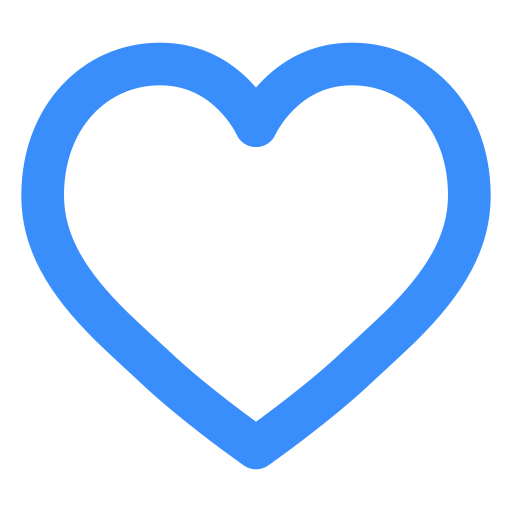
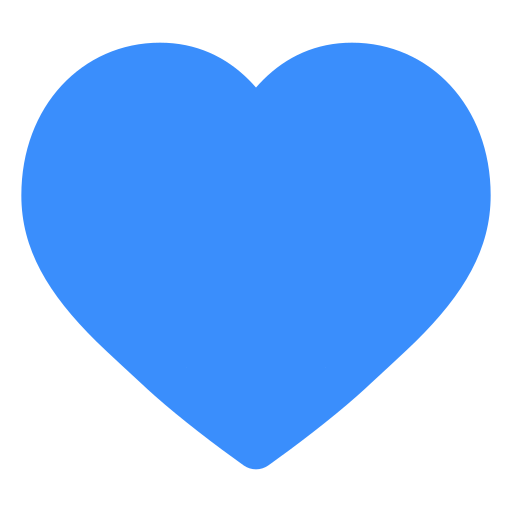
added inline posts & setup timeline

diff --git a/frontend/src/views/Home.js b/frontend/src/views/Home.js
@@ -1,17 +1,55 @@
-import React from "react"
+import React, { useEffect, useState } from "react"
 import SearchBar from "../components/SearchBar"
 
 import '../styles/Home.css'
-import '../components/PostView'
+import InlinePost from "../components/InlinePost"
 
 const Home = () => {
+    const [data, setData] = useState(null)
 
+    useEffect(() => {
+        //replace with api
+            const comment1 = { author: "Jeff", date: new Date("2022-03-03T22:11:12.129+00:00"), id: 421432, message: "My name is Jeff"}
+            const comment2 = { author: "A person", date: new Date("2022-02-30T22:11:12.129+00:00"), id: 91248057, message: "Beep boop"}
+            const comment3 = { author: "Tim Apple", date: new Date("2022-01-13T22:11:12.129+00:00"), id: 6453141, message: "Good Morning!"}
+            const comment4 = { author: "Moana", date: new Date("2022-01-31T22:11:12.129+00:00"), id: 9184537, message: "The ocean is calling me and I must go"}
+            const comment5 = { author: "Joe", date: new Date("2022-02-17T22:11:12.129+00:00"), id: 3978514, message: "Who am I? What is existence but the affirmation by others that you exist? What is love?"}
+            const comment6 = { author: "Jimothy", date: new Date("2022-03-23T22:11:12.129+00:00"), id: 340789541, message: "Comment sections amirite"}
+
+            const objCommentsArray1 = [comment1, comment2, comment5]
+            const objCommentsArray2 = [comment3, comment4, comment5, comment6]
+
+            const objProfilePic = "https://imageio.forbes.com/specials-images/imageserve/5fe74d45a9c2a2d204db2948/0x0.jpg?format=jpg&width=1200&fit=bounds";
+            const post1 = { _id: 23451234312, author: { username: "jimothy", profile_img: objProfilePic }, postedAnon: false, message: `This is a post with some text that shows how a post with some text can be
+            displayed`, likes: 4, datePosted: new Date("2022-02-24T22:11:12.129+00:00"), 
+                comments: objCommentsArray1, topics: ["posts", "society"], isLiked: false }
+
+            const post2 = { _id: 8973241613, author: { username: "dave", profile_img: objProfilePic }, postedAnon: false, message: `This is a very long post to show how
+            a long post would be displayed. This message has been brought to you by Raid Shadow Legeneds. Raid: Shadow Legends is a mobile-fantasy 
+            RPG game for mobile and PC developed by Plarium Games. The game takes place in Teleria, which has been subjugated by the Dark Lord 
+            Siroth. The player goes through twelve levels in single player mode, with a multiplayer PVP mode deciding player rankings`, 
+            likes: 10, datePosted: new Date("2022-03-05T22:11:12.129+00:00"), 
+                comments: objCommentsArray2, topics: ["posts", "society"], isLiked: false }
+
+            setData({ posts: [post1, post2, post2, post2] })
+        //replace with api
+    
+    }, [])
+    
     return (
         <div className="contents home">
-            <h1>Home</h1>
-            <SearchBar />
+            <h1>PurdueCircle</h1>
+            <div className="searchBar"><SearchBar /></div>
+
+            <div className="container postView">
+                {data && (data.posts.length === 0 ? <div>There are no posts to show </div> : (
+                    data.posts.map(post => (
+                        <InlinePost key={post._id} post={post}/>
+                    )))
+                )}
+            </div>
         </div>
     )
-}
+} //Home
 
 export default Home

diff --git a/frontend/src/components/InlinePost.js b/frontend/src/components/InlinePost.js
@@ -1,12 +1,11 @@
 import React, { useState } from 'react'
 
 import '../styles/PostView.css'
-import Button from './Button'
 
 const InlinePost = (props) => {
     const { post } = props
 
-    console.log("post: ", post);
+    // console.log("post: ", post);
 
     //TODO author stuff
     const profilePic = post.author.profile_img;
@@ -40,21 +39,21 @@ const InlinePost = (props) => {
     }
 
     return (
-        <div className='container postView'>
+        // <div className='contaiasfdner postasdfView'>
             <div className='contents'>
                 {/* <UserInfo profilePic={profilePic} author={authorName} date={date} likes={likes} liked={liked} likeHandler={likeHandler}/> */}
-                <PostMetadata authorName={authorName} profilePic={profilePic} date={date} likes={likes} liked={liked} 
+                <PostMetadata authorName={authorName} profilePic={profilePic} date={date} likes={likes} liked={liked} isLiked={isLiked}
                     likeHandler={likeHandler} numComments={numComments}/>
                 <p className='post'>
                     {message}
                 </p>
             </div>
-        </div>
+        // </div>
     )
 } //PostView
 
 const PostMetadata = (props) => {
-    const { authorName, profilePic, date, likes, likeHandler, liked, numComments } = props
+    const { authorName, profilePic, date, likes, likeHandler, liked, isLiked, numComments } = props
 
     return (
         <div className='userInfo'>
@@ -67,13 +66,14 @@ const PostMetadata = (props) => {
             <div className='author'>{authorName}</div>
             <div className='dot'>•</div>
             <div className='date'>{date}</div>
-            <div className='pushRight'>{numComments} com</div>
-            <div>
-                {likes}
-                <Button className={`button ${liked()} likeButton`} onClick={likeHandler} text={`${likes} likes`} />
-                <button className='likeButton' onClick={likeHandler}>
-                    <img src='/likedIcon.png' alt='pic'/>
-                </button>
+            <div className='pushRight'>
+                <div className='likeButton'>
+                    {likes}
+                    <button className='button likeButton' onClick={likeHandler}>
+                        {isLiked ? <img src='/likedIcon.png' alt='pic'/> : <img src='/unlikedIcon.png' alt='pic'/>}
+                    </button>
+                </div>
+                <div className='numComments'>{numComments} comments</div>
             </div>
         </div>
     )

diff --git a/frontend/src/styles/PostView.css b/frontend/src/styles/PostView.css
@@ -1,9 +1,17 @@
 .container.postView {
     display: flex;
     align-items: center;
-	justify-content: center;
+    flex-direction: column;
 
-    padding: 40px 0 0;
+    /* padding: 40px 0 0; */
+}
+
+.container.postView > * {
+    margin-top: 10px;
+}
+
+.container.postView > *:first-child {
+    margin-top: 0px;
 }
 
 .container.postView .contents {
@@ -48,13 +56,18 @@
 }
 
 .container.postView .likeButton {
+    font-size: 13px;
+
+    display: flex;
+    justify-content: center;
+    align-items: center;
     border: none;
     background-color: var(--bg-sec);
 }
 
 .container.postView .likeButton img {
-    height: 40px;
-    width: 40px;
+    height: 20px;
+    width: 20px;
 }
 
 .container.postView .profilePic {
@@ -80,8 +93,12 @@
     /* margin-right: 10px; */
 }
 
+
 .container.postView .pushRight {
     margin-left: auto;
+    display: flex;
+    flex-direction: column;
+    align-items: flex-end;
 }
 
 .container.postView .post {
@@ -107,6 +124,10 @@
 
 .container.postView .postComment {
     padding: 5px 0px;
+}
+
+.container.postView .numComments {
+    font-size: 13px;
 }
 
 .container.postView .commentHeader {

diff --git a/frontend/src/views/PostsByTopic.js b/frontend/src/views/PostsByTopic.js
@@ -2,7 +2,6 @@ import axios from "axios"
 import React,{ useState,useEffect } from "react"
 import {useLocation} from "react-router-dom"
 
-import '../components/InlinePost'
 import InlinePost from "../components/InlinePost"
 
 const PostsByTopic = () => {
@@ -45,12 +44,10 @@ const PostsByTopic = () => {
     // TODO: check data.following. Null means no buttons. True = should have unfollow. False = should have follow
     return(
         // TODO: pass data as props into post components
-        <div> 
+        <div className="container postView"> 
         {data && (data.posts.length === 0 ? <div>There are no posts with the topic "{title}" </div> : (
             data.posts.map(post => (
-                <div key={post._id}>
-                    <InlinePost post={post}/>
-                </div>
+                    <InlinePost key={post._id} post={post}/>
                 // <div key={post._id} style={{display:"flex"}}>
                 //     <h2>{post.message}</h2> 
                 // </div>

diff --git a/frontend/src/styles/Home.css b/frontend/src/styles/Home.css
@@ -1,0 +1,22 @@
+.contents.home {
+    display: flex;
+    flex-direction: column;
+    align-items: center;
+}
+
+.contents.home .container.postView {
+    margin: 20px 0px;
+}
+
+.contents.home .searchBar {
+    width: 500px;
+}
+
+.contents.home .css-1s2u09g-control {
+    background-color: var(--bg-field) !important;
+    cursor: text !important;
+}
+
+.contents.home .css-1pahdxg-control {
+    cursor: text !important;
+}

diff --git a/frontend/src/views/CreatePost.js b/frontend/src/views/CreatePost.js
@@ -5,7 +5,6 @@ import Switch from '@mui/material/Switch'
 import '../styles/CreatePost.css'
 
 import Field from "../components/Field"
-import Button from "../components/Button"
 import { ButtonBlue } from '../components/Button'
 
 import axios from "axios"

diff --git a/frontend/src/styles/App.css b/frontend/src/styles/App.css
@@ -28,7 +28,7 @@
     display: flex;
     flex-direction: column;
 
-    height: 100vh;
+    /* height: 100vh; */
 }
 
 h1 {
